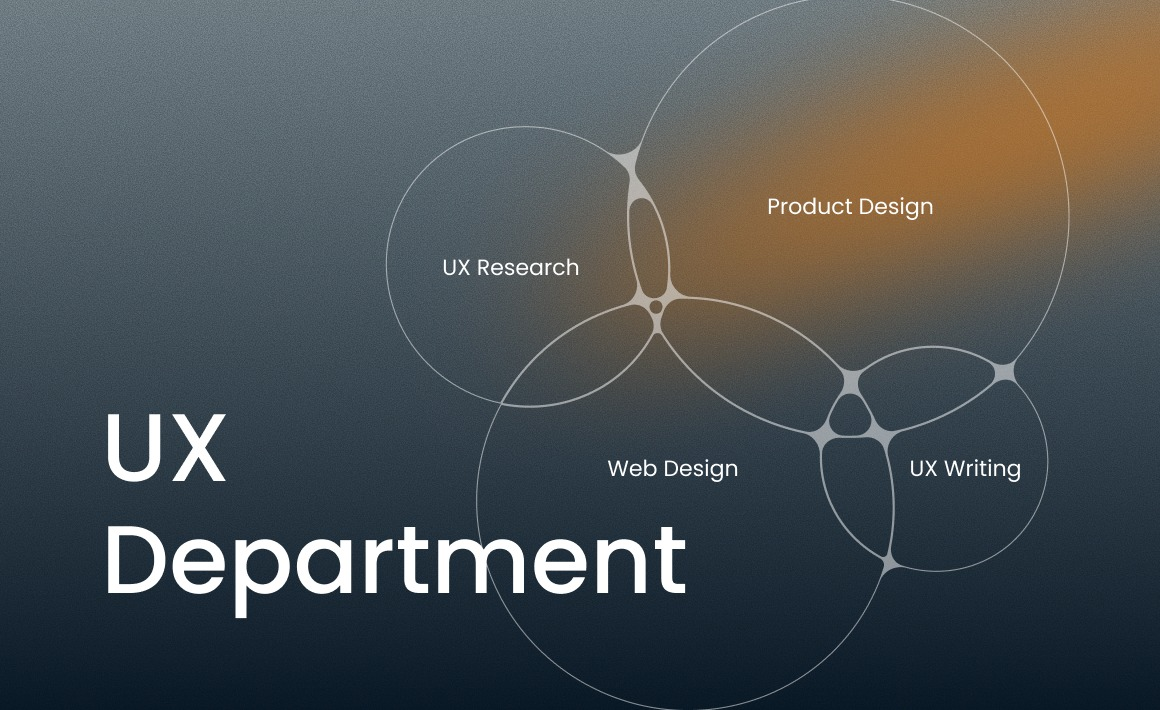
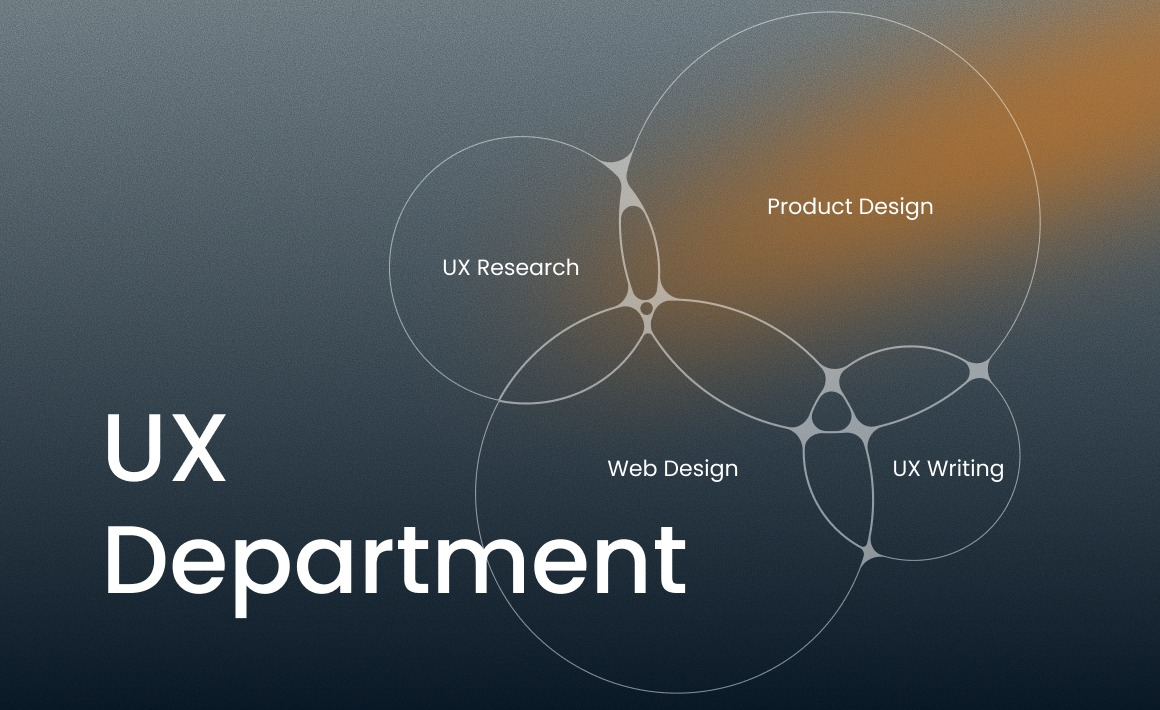
Develux case: updated cover from Figma
Claude-Session: https://claude.ai/code/session_01KrCcaaPpT7xGfxyrtmaZ9B

diff --git a/index.html b/index.html
@@ -671,7 +671,7 @@ img[src$="rocken-logo.svg"],img[src$="asalart-logo.png"],img[src$="rocken-wordma
     <p class="project__domain">Building a design &amp; research function</p>
     <div class="project__foot"><p class="project__role">Chief Design Officer</p><p class="project__sub">2023 &#8211; 2026</p></div>
   </div>
-  <div class="project__img"><img src="assets/cover-develux.jpg?v=2" width="580" height="355" alt="Develux — building a design and research function, leadership case" loading="lazy"><span class="project__glass" aria-hidden="true"><span class="project__cta">View case<svg viewBox="0 0 16 16" width="14" height="14" fill="none"><path d="M3 8h10M9 4l4 4-4 4" stroke="currentColor" stroke-width="1.5" stroke-linecap="round" stroke-linejoin="round"/></svg></span></span></div>
+  <div class="project__img"><img src="assets/cover-develux.jpg?v=3" width="580" height="355" alt="Develux — building a design and research function, leadership case" loading="lazy"><span class="project__glass" aria-hidden="true"><span class="project__cta">View case<svg viewBox="0 0 16 16" width="14" height="14" fill="none"><path d="M3 8h10M9 4l4 4-4 4" stroke="currentColor" stroke-width="1.5" stroke-linecap="round" stroke-linejoin="round"/></svg></span></span></div>
   <a class="project__link" href="#develux" aria-label="Develux — building a design and research function, leadership case"></a>
 </article>
 <article class="project">
